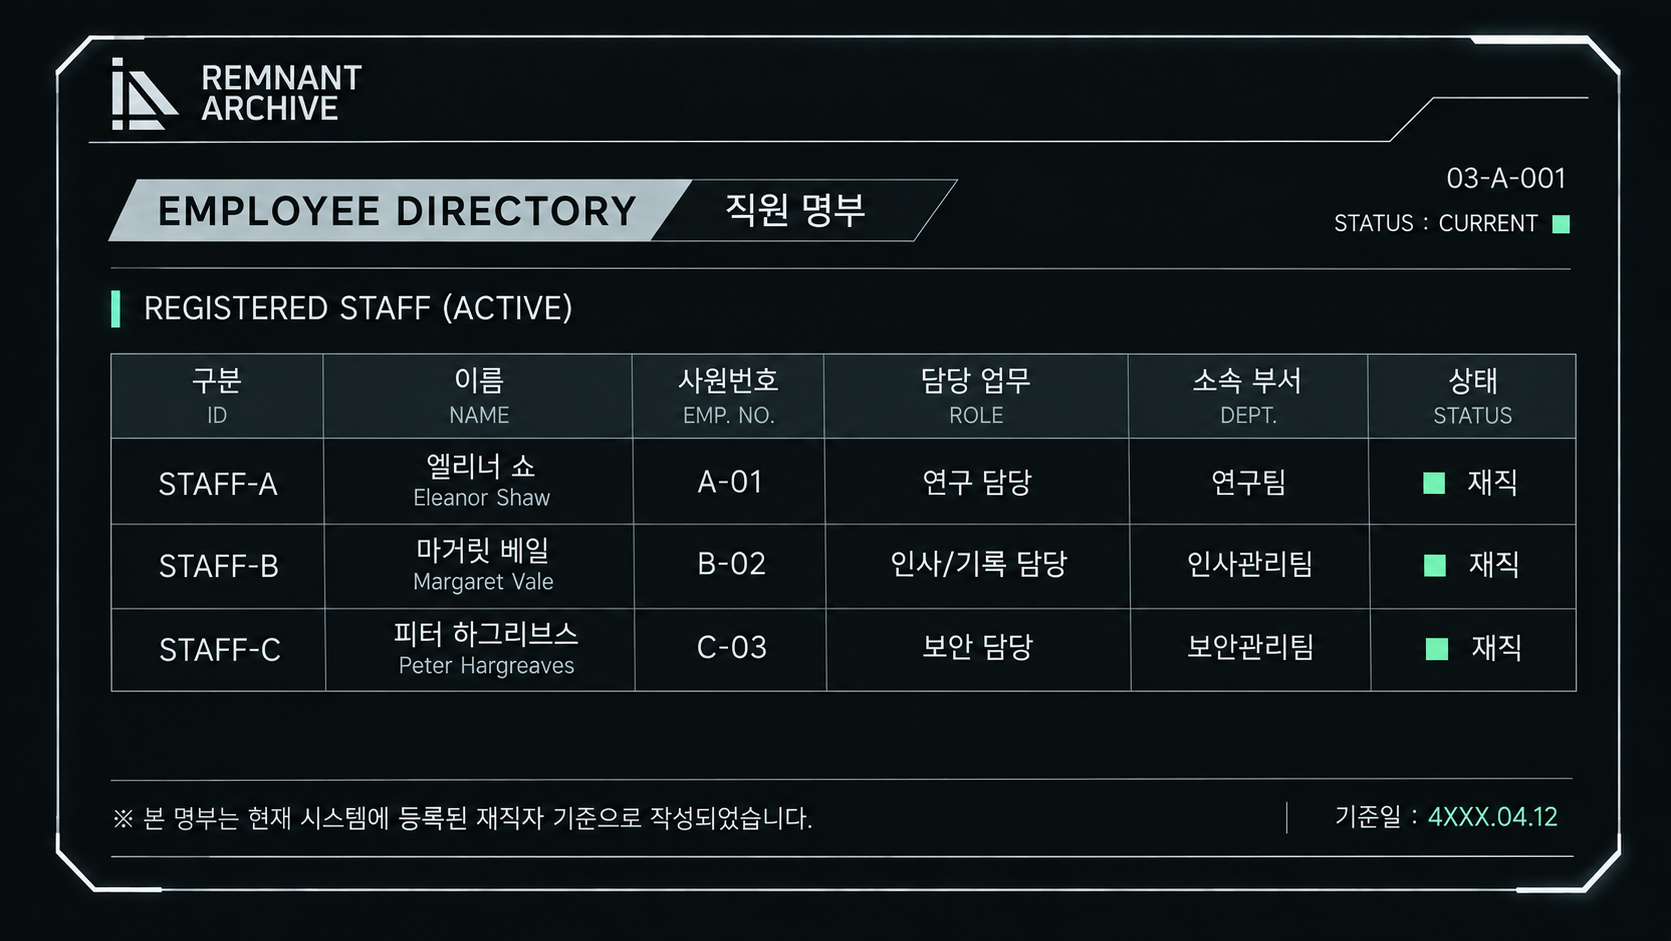
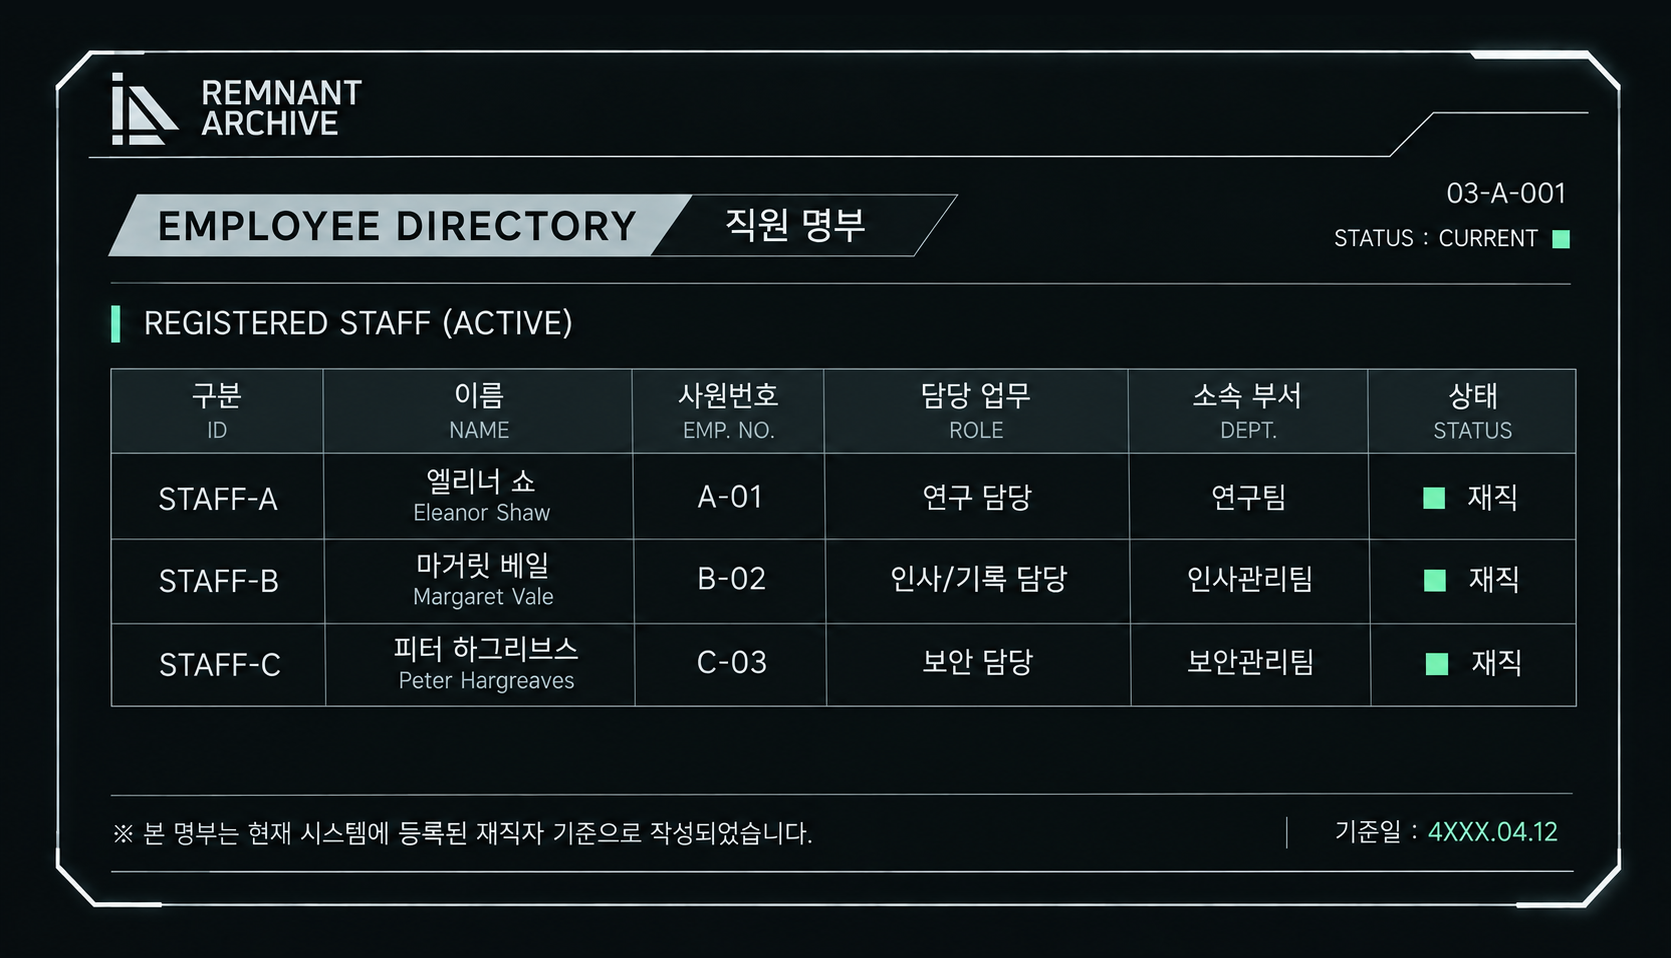
03-A 직원 명부 위아래 여백 맞춤, 생활공간 일기 수첩 이미지 축소
- 03-A-001: 게임 복사본 이미지에 위 15px·아래 2px 배경을 덧대 테두리 위아래 여백을 50px로 맞춤
  (자료 창에서 03-A-002와 같은 위아래 약 30px). 이름 칸·로고 칸 위치 재계산, 원본은 제작_에셋에 그대로
- 자료 이미지에도 에셋 버전(ASSET_VER = 6)을 붙여 예전 사본을 쓰지 않게 함
- 03-C: 펼치기 전 수첩 이미지를 자료 창 폭의 70%로 가운데 배치 (펼친 일기는 전체 폭)

diff --git a/shinip/assets/assets.js b/shinip/assets/assets.js
@@ -24,13 +24,10 @@ R01.ASSETS = {
    patches.box: 이미지 안 위치 [왼쪽, 위, 너비, 높이] (%). 이미지에 그려진 글자를 설정에 맞게 덮는다
    patches.img: 글자 대신 이미지(로고)를 덮어 올린다. baseImg·hoverImg가 있으면 img는 늘 보이고, 마우스를 올렸을 때 baseImg가 hoverImg로 바뀐다 (로고 앰블럼) */
 /* 자료 HTML 문서의 버전. 단서 문서(assets/clue/*.html)를 고치면 숫자를 올린다 — 자료 창이 브라우저에 남은 예전 문서 대신 새 문서를 연다 */
-R01.ASSET_VER = '5';
+R01.ASSET_VER = '6';
 R01.CLUE_ASSETS = {
-  // 03-A: 이미지의 A 이름(엘리너 쇼 / Eleanor Shaw)을 엘리넛 쇼 / Elliot Shaw로 덮는다 (D49·D54)
-  '03A': { kind: 'image', img: 'assets/clue/clue-03a.png', html: 'assets/clue/clue-03a-worklog.html', ratio: '1671 / 941',
-    patches: [{ box: [19.6, 47, 18.1, 8.3], bg: '#0a1113', lines: ['엘리넛 쇼', 'Elliot Shaw'] },
-      // 이미지에 그려진 옛 앰블럼(112,57~361,129 px)을 배경색으로 덮고 문서 공통 로고를 올린다 (다른 HTML 문서와 같은 로고)
-      { box: [6.22, 5.31, 16.04, 9.14], bg: '#070e10', img: 'assets/clue/clue-logo-text.png', baseImg: 'assets/clue/clue-logo-emblem.png', hoverImg: 'assets/clue/clue-logo-emblem-intranet.png' }] },
+  // 03-A: 직원 명부와 업무 기록을 한 단서의 두 문서로 표시
+  '03A': { kind: 'doc', html: 'assets/clue/clue-03a.html', appendix: 'assets/clue/clue-03a-worklog.html' },
   // 03-B: 사건일 4XXX.01.24 16:40 (world.md 정답 타임라인). 영상 8초 동안 16:39:30 → 16:41:30
   '03B': { kind: 'cctv', img: 'assets/clue/clue-03b.jpg', video: 'assets/clue/clue-03b.mp4', ratio: '1671 / 941',
     cam: 'CAM 02', date: '4XXX.01.24', still: ['16:39:12', '16:40:07', '16:41:03'], from: '16:39:30', to: '16:41:30' },

diff --git a/shinip/js/pages.js b/shinip/js/pages.js
@@ -222,7 +222,7 @@ window.R01 = window.R01 || {};
   /* 문서 이미지 + 이미지 안 글자를 설정에 맞게 덮는 HTML 글자 (03-A) */
   function imageView(a, x) {
     return h('figure', { class: 'clue-img', style: 'aspect-ratio:' + a.ratio },
-      h('img', { src: a.img, alt: x.name }),
+      h('img', { src: a.img + (R.ASSET_VER ? '?v=' + R.ASSET_VER : ''), alt: x.name }),   // 이미지도 버전을 붙여 예전 사본을 쓰지 않게
       (a.patches || []).map((p) => h('div', { class: 'clue-patch' + (p.img ? ' logo' : ''), 'aria-hidden': 'true',
         style: 'left:' + p.box[0] + '%;top:' + p.box[1] + '%;width:' + p.box[2] + '%;height:' + p.box[3] + '%;background:' + p.bg },
       p.img ? [h('img', { src: p.img, alt: '' }), p.baseImg ? h('img', { class: 'base', src: p.baseImg, alt: '' }) : null,
@@ -298,13 +298,12 @@ window.R01 = window.R01 || {};
     const a = R.CLUE_ASSETS && R.CLUE_ASSETS[x.key];
     if (!a) return tempPhoto(x);
     if (a.kind === 'pending') return tempPhoto(x, '[에셋 준비 중]');
-    if (a.kind === 'doc') return h('div', { class: 'clue-doc' }, docFrame(a.html, 'clue-frame', x.name, a.fallback));
-    if (a.kind === 'image') {
-      const image = imageView(a, x);
-      if (!a.html) return image;
-      return h('div', null, image, h('div', { class: 'clue-doc' },
-        docFrame(a.html, 'clue-frame', '업무 기록')));
+    if (a.kind === 'doc') {
+      const main = docFrame(a.html, 'clue-frame', x.name, a.fallback);
+      return h('div', { class: 'clue-doc' }, main,
+        a.appendix ? docFrame(a.appendix, 'clue-frame', '업무 기록') : null);
     }
+    if (a.kind === 'image') return imageView(a, x);
     if (a.kind === 'cctv') return cctvView(a, x);
     if (a.kind === 'overlay') return overlayView(a, x);
     return tempPhoto(x);

diff --git a/shinip/css/base.css b/shinip/css/base.css
@@ -287,6 +287,8 @@ button,input{font:inherit;color:inherit}
 .clue-over.bare .clue-over-frame{opacity:0;pointer-events:none}
 /* 03-C: 수첩 이미지에 올리면 돋보기, 누르면 본문 */
 .clue-over.bare{cursor:none;transition:filter .2s}
+/* 수첩 이미지(펼치기 전)는 자료 창 폭의 70%로 가운데에 둔다. 펼친 일기는 전체 폭 */
+.clue-over.bare{width:70%;margin:0 auto}
 .clue-over.bare:hover,.clue-over.bare:focus-visible{filter:brightness(1.12)}
 .clue-over.bare:focus-visible{outline:2px solid var(--neon);outline-offset:2px}
 .clue-lens{position:absolute;left:50%;top:50%;width:64px;height:64px;margin:-32px 0 0 -32px;display:flex;align-items:center;justify-content:center;border-radius:50%;
